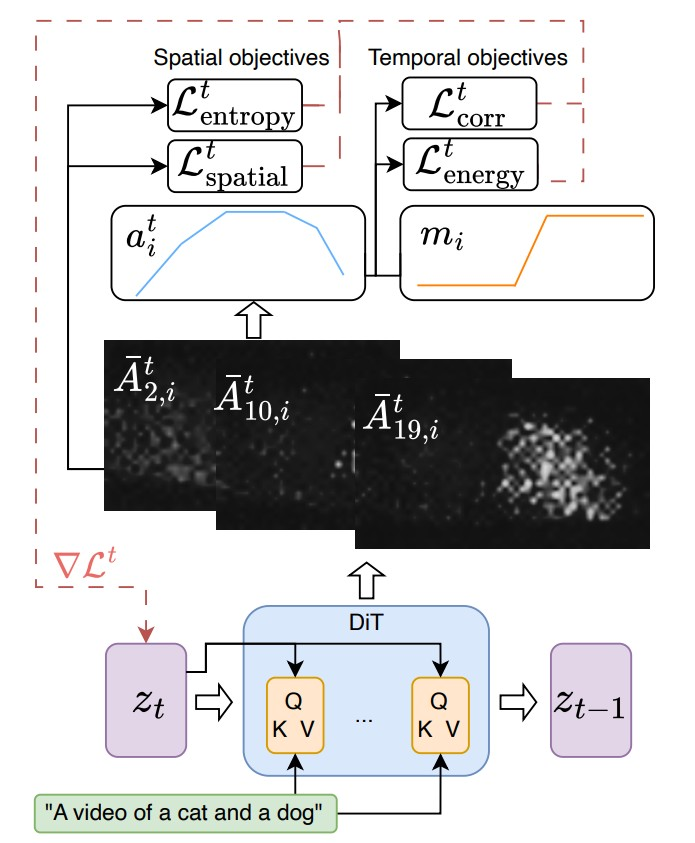
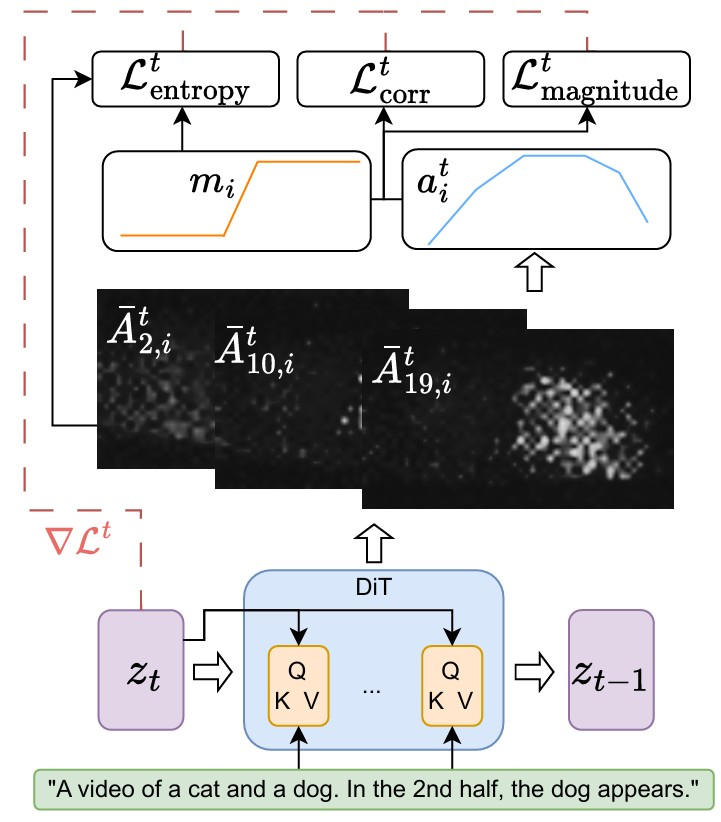
Fix

diff --git a/index.html b/index.html
@@ -124,22 +124,12 @@
           <h2 class="title is-3">Abstract</h2>
           <div class="content has-text-justified">
             <p>
-              Recent advances in generative video models have enabled the creation of high-quality videos
-              based on natural language prompts. However, these models frequently lack fine-grained 
-              temporal control, meaning they do not allow users to specify when particular visual elements
-              should appear within a generated sequence.
-              In this work, we introduce <strong>TempoControl</strong>, a method that allows for temporal alignment
-              of visual concepts during inference, without requiring retraining or additional supervision.
+              Recent advances in generative video models have enabled the creation of high-quality videos based on natural language prompts. However, these models frequently lack fine-grained temporal control, meaning they do not allow users to specify when particular visual elements should appear within a generated sequence.
+              In this work, we introduce <strong>TempoControl</strong>, a method that allows for temporal alignment of visual concepts during inference, without requiring retraining or additional supervision.
             </p>
             <p>
-              TempoControl utilizes cross-attention maps, which are an inherent component of text-to-video
-              diffusion models, to guide the timing of concepts through a novel optimization approach.
-              Our method steers attention using three complementary principles: aligning its temporal
-              shape with a control signal (via correlation), amplifying it where visibility is needed
-              (via energy), and keeping it spatially focused (via entropy). TempoControl allows precise
-              control over timing while ensuring high video quality and diversity. We demonstrate its
-              effectiveness across various video generation applications, including temporal reordering
-              for single and multiple objects, as well as action and audio-aligned generation.
+              TempoControl utilizes cross-attention maps, a key component of text-to-video diffusion models, to guide the timing of concepts through a novel optimization approach. Our method steers attention using three complementary principles: aligning its temporal pattern with a control signal (correlation), adjusting its strength where visibility is required (magnitude), and preserving semantic consistency (entropy). TempoControl provides precise temporal control while maintaining high video quality and diversity.
+              We demonstrate its effectiveness across various applications, including temporal reordering of single and multiple objects, action timing, and audio-aligned video generation.
             </p>
           </div>
         </div>
@@ -773,10 +763,10 @@
       
       <div class="center-image-attention">
   <img src="images/attention.jpg" alt="Attention Visualization">
-  <p class="video-caption">Video generated for the prompt ``A cat and a dog.'' Before (left) and after optimization (right). Top: Spatial attention maps for the tokens <i>cat</i>> and <i>dog</i> at denoising step $t{=}3$, shown for frames $j{=}2,10,19$. Attention is overlaid on generated frames. Bottom: temporal attention $a_{i,j}^t$ (blue) vs. target mask $m_{i,j}$ (orange), with Pearson correlation loss shown.</p>
+    <p class="video-caption">Motivation for our approach. <strong>Top:</strong> We show a video generated for the prompt "The video begins with a serene view centered on the cat, with no sign of the dog. In the second half, the dog unexpectedly appears, altering the dynamic of the scene." The top row displays the attention maps for the tokens <em>cat</em> and <em>dog</em>, extracted from the denoising step $t{=}3$, for frames $j{=}2,6,10,14,19$. On the left, the video is generated without our optimization. Despite the prompt specifying that the dog should appear in the second half, it appears early. This behavior is common, as Wan 2.1 often fails to depict objects or movements according to temporal cues in the prompt. On the right, after applying our conditioning method, the dog correctly appears in the second half of the video. <strong>Bottom:</strong> Temporal attention $a_{i,j}^t$ (blue) versus target mask $m_{i,j}$ (orange), with the corresponding Pearson correlation loss shown.</p>
       </div>
       <p>
-        Our loss consists of the following components, for temporal (i) $\mathcal{L}_{\text{corr}}^t$ (ii) $\mathcal{L}_{\text{energy}}^t$, for spatial (iii) $\mathcal{L}_{\text{entropy}}^t$ (iv) $\mathcal{L}_{\text{spatial}}^t$:
+        The loss $\mathcal{L}^t$ consists of a single main component: a temporal correlation term that aligns the attention pattern with the target mask. While this term is most significant for aligning with the temporal condition, we also include two terms that further improve the results: (ii) a magnitude term that amplifies or suppresses token-level activation, and (iii) an attention entropy regularization term that preserves spatial consistency:
       </p>
 
       <div style="margin: 2rem 0;">
@@ -790,7 +780,7 @@
           \end{equation}$$
         </div>
         
-        <p><strong>(ii) Attention energy term $\mathcal{L}_{\text{energy}}^t$:</strong></p>
+        <p><strong>(ii) Attention magnitude term $\mathcal{L}_{\text{energy}}^t$:</strong></p>
         <p style="margin: 1rem 0; color: #555;">
           Directly promotes stronger attention in frames where the temporal signal is high, and suppresses it elsewhere, mitigating cases where correlation scores are high but attention values are too low to render the object visible.
         </p>
@@ -808,7 +798,7 @@
           \end{equation}$$
         </div>
 
-        <p><strong>(iii) Entropy regularization $\mathcal{L}_{\text{entropy}}^t$:</strong></p>
+        <p><strong>(iii) Attention entropy regularization $\mathcal{L}_{\text{entropy}}^t$:</strong></p>
         <p style="margin: 1rem 0; color: #555;">
           Maintains spatial focus, ensuring that when attention is activated, it remains coherent and not diffusely spread across the frame.
         </p>
@@ -818,24 +808,15 @@
           \end{equation}$$
         </div>
 
-        <p><strong>(iv) Spatial consistency penalty $\mathcal{L}_{\text{spatial}}^t$:</strong></p>
-        <p style="margin: 1rem 0; color: #555;">
-          Maintains spatial consistency by penalizing deviations between the initial and optimized spatial attention maps for the target word.
-        </p>
-        <div style="text-align: center; margin: 1.5rem 0;">
-          $$\begin{equation}
-          \mathcal{L}_{\text{spatial}}^t = \left\| \sum_{j=1}^{T'} \left( \hat{A}^{t}_{j,i} - \bar{A}^{t}_{j,i} \right) \right\|_2^2
-          \end{equation}$$
-        </div>
 
         <p><strong>Total Loss:</strong></p>
         <div style="text-align: center; margin: 1.5rem 0;">
           $$\begin{equation}
-          \mathcal{L}^t = \mathcal{L}_{\text{corr}}^t + \lambda_1 \mathcal{L}_{\text{energy}}^t + \lambda_2 \mathcal{L}_{\text{entropy}}^t + \lambda_3 \mathcal{L}_{\text{spatial}}^t
+          \mathcal{L}^t = \mathcal{L}_{\text{corr}}^t + \lambda_1 \mathcal{L}_{\text{energy}}^t + \lambda_2 \mathcal{L}_{\text{entropy}}^t
           \end{equation}$$
         </div>
         <p style="font-size: 0.95rem; color: #666;">
-          where $\lambda_1, \lambda_2, \lambda_3$ are hyperparameters that balance the contributions of each loss term.
+          where $\lambda_1$ and $\lambda_2$ are hyperparameters that balance the contributions of each loss term.
         </p>
       </div>
 
